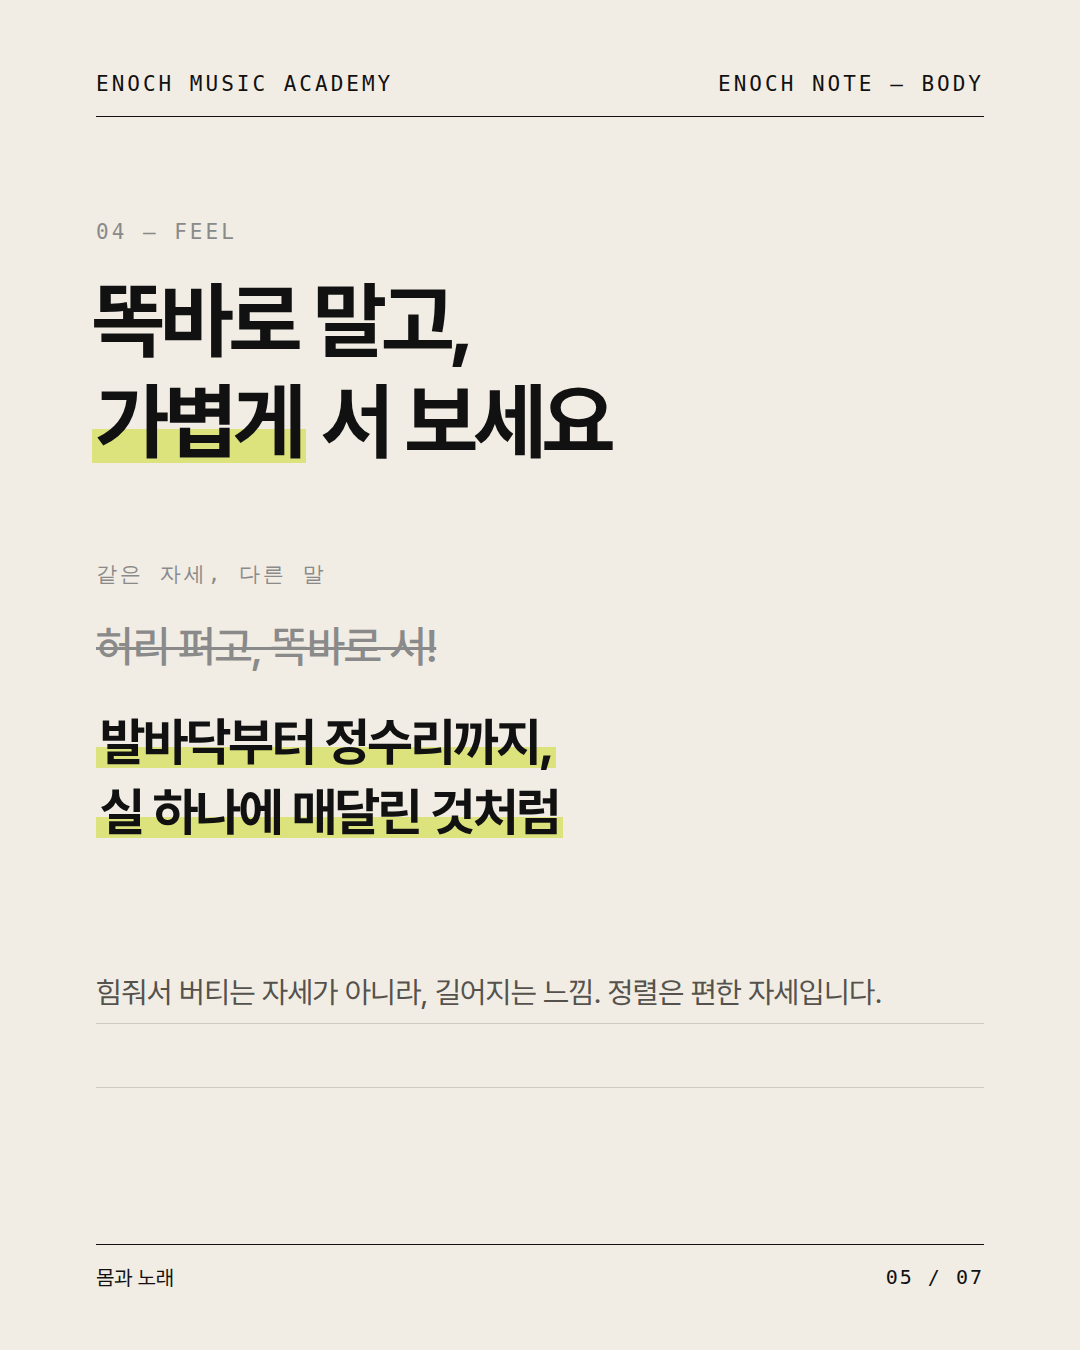
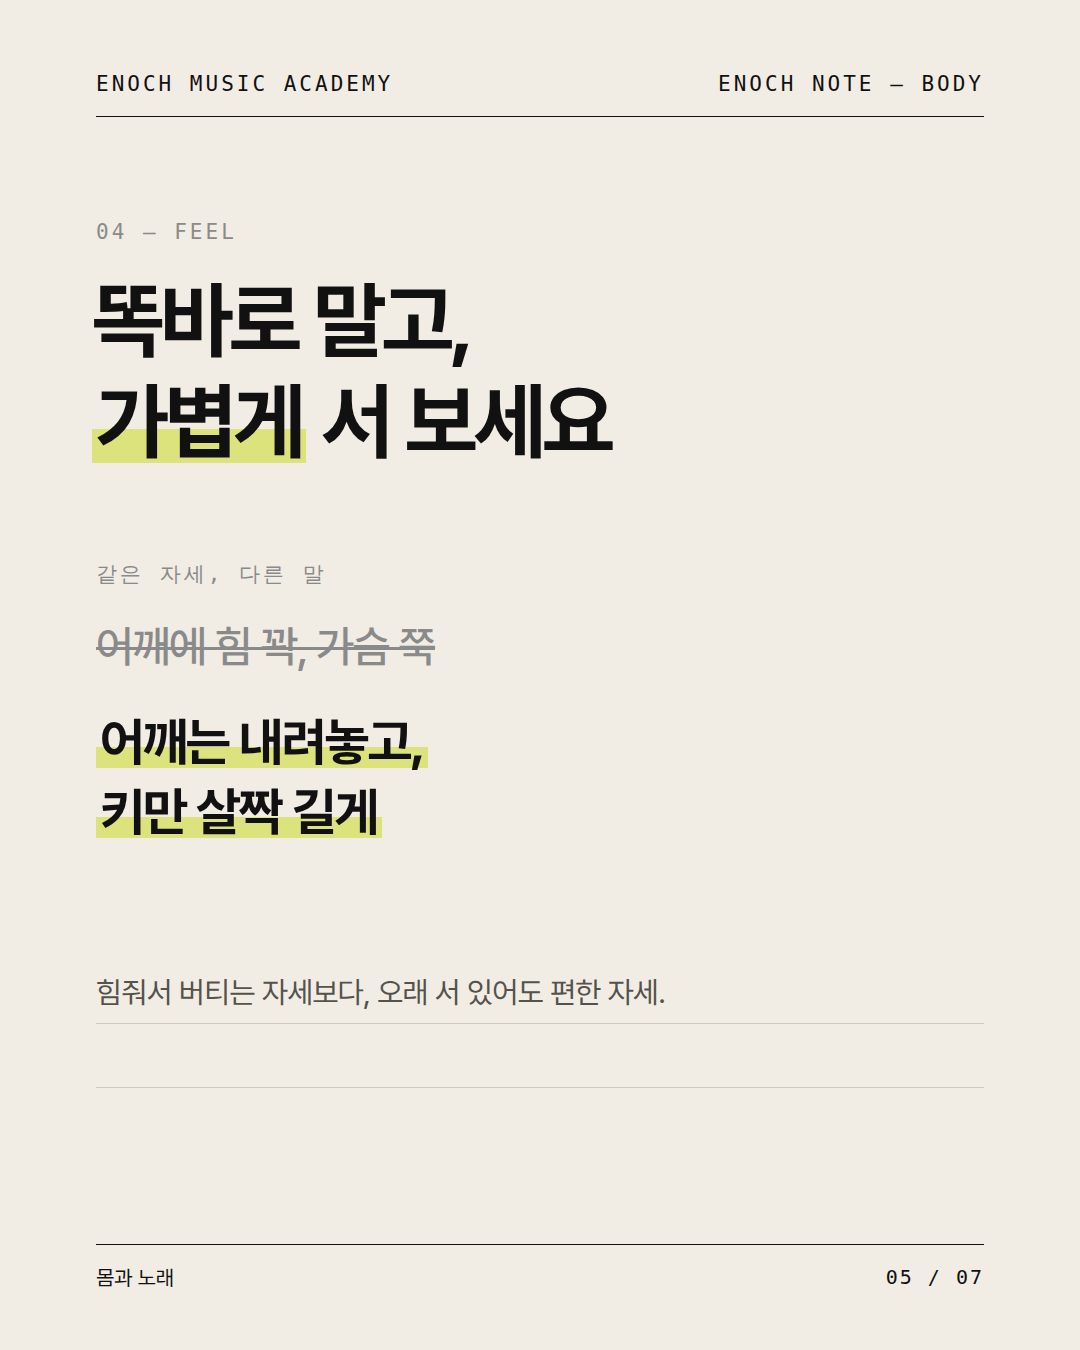
몸과 노래: 강사별 티칭 차이를 고려해 상식 선으로 수정 + CLAUDE.md 규칙
Claude-Session: https://claude.ai/code/session_01HGbZvgMeYrbU7mY8bwfjyb

Changed region(s): [[0.0917, 0.5289, 0.5194, 0.6222], [0.275, 0.7156, 0.825, 0.7467], [0.0917, 0.4667, 0.4278, 0.4978]]

diff --git a/output/노트_몸과노래/deck.html b/output/노트_몸과노래/deck.html
@@ -53,18 +53,18 @@ mark{background:linear-gradient(transparent 58%,var(--lime) 58%,var(--lime) 92%,
   <div class="h" style="position:absolute;left:92px;top:270px">똑바로 말고,<br><mark>가볍게</mark> 서 보세요</div>
   <div class="k" style="position:absolute;left:96px;top:560px">같은 자세, 다른 말</div>
   <div style="position:absolute;left:96px;right:96px;top:620px">
-    <div class="del" style="font-size:44px;font-weight:500;letter-spacing:-1.5px">허리 펴고, 똑바로 서!</div>
-    <div style="margin-top:34px;font-size:52px;font-weight:700;letter-spacing:-2px;line-height:1.35"><mark>발바닥부터 정수리까지,</mark><br><mark>실 하나에 매달린 것처럼</mark></div>
+    <div class="del" style="font-size:44px;font-weight:500;letter-spacing:-1.5px">어깨에 힘 꽉, 가슴 쭉</div>
+    <div style="margin-top:34px;font-size:52px;font-weight:700;letter-spacing:-2px;line-height:1.35"><mark>어깨는 내려놓고,</mark><br><mark>키만 살짝 길게</mark></div>
   </div>
-  <div class="note" style="top:960px;height:128px"><p>힘줘서 버티는 자세가 아니라, 길어지는 느낌. 정렬은 편한 자세입니다.</p></div>
+  <div class="note" style="top:960px;height:128px"><p>힘줘서 버티는 자세보다, 오래 서 있어도 편한 자세.</p></div>
   <div class="ft"><span>몸과 노래</span><span>05 / 07</span></div>
 </section>
 <section class="s dark" id="n6"><div class="hd"><span>ENOCH MUSIC ACADEMY</span><span>TRY TODAY</span></div>
-  <div class="h" style="position:absolute;left:92px;top:220px">오늘,<br>벽 앞에서 한 소절</div>
+  <div class="h" style="position:absolute;left:92px;top:220px">오늘,<br>거울 옆에서 한 소절</div>
   <div style="position:absolute;left:96px;right:96px;top:520px">
-    <div style="display:flex;gap:32px;padding:34px 0;border-top:1px solid rgba(241,237,228,.3)"><span class="num" style="color:var(--lime);font-size:80px;width:70px">1</span><div><div style="font-size:36px;font-weight:700">벽에 기대기</div><div style="margin-top:10px;font-size:28px;color:#C9C4BB;line-height:1.5">뒤꿈치, 엉덩이, 어깨, 뒤통수를 벽에 대고 섭니다.</div></div></div>
-    <div style="display:flex;gap:32px;padding:34px 0;border-top:1px solid rgba(241,237,228,.3)"><span class="num" style="color:var(--lime);font-size:80px;width:70px">2</span><div><div style="font-size:36px;font-weight:700">한 소절</div><div style="margin-top:10px;font-size:28px;color:#C9C4BB;line-height:1.5">그대로 좋아하는 노래 한 소절을 불러 보세요.</div></div></div>
-    <div style="display:flex;gap:32px;padding:34px 0;border-top:1px solid rgba(241,237,228,.3);border-bottom:1px solid rgba(241,237,228,.3)"><span class="num" style="color:var(--lime);font-size:80px;width:70px">3</span><div><div style="font-size:36px;font-weight:700">비교하기</div><div style="margin-top:10px;font-size:28px;color:#C9C4BB;line-height:1.5">벽에서 떨어져 같은 소절을 한 번 더.<br>둘 다 녹음해서 나란히 들어 봅니다.</div></div></div>
+    <div style="display:flex;gap:32px;padding:34px 0;border-top:1px solid rgba(241,237,228,.3)"><span class="num" style="color:var(--lime);font-size:80px;width:70px">1</span><div><div style="font-size:36px;font-weight:700">옆모습 보기</div><div style="margin-top:10px;font-size:28px;color:#C9C4BB;line-height:1.5">거울 옆에 서서, 귀와 어깨가<br>앞뒤로 너무 어긋나 있지 않은지 봅니다.</div></div></div>
+    <div style="display:flex;gap:32px;padding:34px 0;border-top:1px solid rgba(241,237,228,.3)"><span class="num" style="color:var(--lime);font-size:80px;width:70px">2</span><div><div style="font-size:36px;font-weight:700">한 소절</div><div style="margin-top:10px;font-size:28px;color:#C9C4BB;line-height:1.5">편하게 선 채로, 좋아하는 노래 한 소절.</div></div></div>
+    <div style="display:flex;gap:32px;padding:34px 0;border-top:1px solid rgba(241,237,228,.3);border-bottom:1px solid rgba(241,237,228,.3)"><span class="num" style="color:var(--lime);font-size:80px;width:70px">3</span><div><div style="font-size:36px;font-weight:700">비교하기</div><div style="margin-top:10px;font-size:28px;color:#C9C4BB;line-height:1.5">구부정하게 한 번, 편하게 선 채로 한 번.<br>둘 다 녹음해서 나란히 들어 보세요.</div></div></div>
   </div>
   <div class="ft"><span>몸과 노래</span><span>06 / 07</span></div>
 </section>

diff --git a/CLAUDE.md b/CLAUDE.md
@@ -44,6 +44,7 @@
 - "ENOCH이 실제로 이렇게 가르친다"는 문장은 학원에서 확인한 사실만 쓴다. 확인 전에는 원칙 문장만 쓰고, 확인할 내용은 "학원에 확인할 것"에 올린다.
 - 확인된 항목을 쓸 때도 방법·순서·요령은 확인된 것만 쓴다. (예: "수험표"가 확인됐어도 "가방에 가장 먼저 넣기"는 확인 전에는 쓰지 않는다.)
 - 확인된 사실을 문장으로 옮길 때 순서·우선순위 표현("먼저", "가장 먼저", "첫 번째로")을 새로 붙이지 않는다. (예: "가장 신경 쓴 것은 분위기" → "분위기에 가장 신경 썼어요" (O) / "분위기를 가장 먼저 생각했어요" (X)) (2026-10-01 원장님 결정)
+- 보컬·연주 기술 콘텐츠는 강사마다 티칭이 다르므로, 특정 방법론(특정 이미지 지시, 특정 훈련법)을 정답처럼 쓰지 않고 누구나 납득할 수 있는 상식 선에서 쓴다. 수업에서 "이렇게 한다"는 문장은 넣지 않는다 (2026-10-11 원장님 결정).
 - 원장님은 카드·캡션에 드러내지 않는다. 원장님이 한 말도 "원장님"을 밝히지 않고 쓴다 (2026-10-01 원장님 결정).
 - 모든 연령 대상 학원이다. 특정 연령·학부모를 겨냥하는 표현("부모님", "아이", "어떤 아이는")은 쓰지 않고 "사람마다", "한 사람의"처럼 쓴다 (2026-10-07 원장님 결정).
 - 카드 안의 가사 예시는 존댓말을 쓰지 않고 실제 노래 가사처럼 반말·가사체로 쓴다. 설명 문장은 그대로 존댓말 (2026-10-11 원장님 결정).

diff --git a/output/노트_몸과노래/caption.md b/output/노트_몸과노래/caption.md
@@ -3,11 +3,11 @@
 ## 본문
 목은 편한데, 소리는 왜 답답할까?
 
-노래는 목으로만 부르지 않습니다. 몸이 서 있는 모양까지, 소리에 들어가거든요. ENOCH 보컬 수업은 모든 과정이 1:1, 사람마다 다른 몸에 맞는 편한 자세를 함께 봅니다.
+노래는 목으로만 부르지 않습니다. 몸이 서 있는 모양까지, 소리에 들어가거든요. 사람마다 몸이 다른 만큼, ENOCH 보컬 수업은 모든 과정이 1:1입니다.
 
-등이 굽으면 숨이 얕아지고, 고개가 앞으로 나오면 목이 대신 일하기 쉽습니다. 그렇다고 힘줘서 똑바로 설 필요는 없어요. 발바닥부터 정수리까지, 실 하나에 매달린 것처럼 가볍게.
+등이 굽으면 숨이 얕아지고, 고개가 앞으로 나오면 목이 대신 일하기 쉽습니다. 그렇다고 힘줘서 버틸 필요는 없어요. 어깨는 내려놓고, 키만 살짝 길게.
 
-오늘은 벽 앞에서 한 소절. 벽에 기대 부른 소리와 떨어져 부른 소리를 녹음해서 나란히 들어 보세요.
+오늘은 거울 옆에서 한 소절. 구부정하게 부른 소리와 편하게 서서 부른 소리를 녹음해서 나란히 들어 보세요.
 
 에녹실용음악학원 시흥점
 경기도 시흥시 은행로 157 2층 · 010 3949 3666

diff --git a/output/노트_몸과노래/review.md b/output/노트_몸과노래/review.md
@@ -8,8 +8,8 @@
 - [x] 한 장 한 메시지, 1080×1350
 - [x] 사실: 일반 발성 교육 범위, 과장 없음. 사람 그림 없음.
 
-## 학원에 확인할 것
-- 캡션 "사람마다 다른 몸에 맞는 편한 자세를 함께 봅니다" — 보컬 수업에서 자세를 봐 주는지 확인 (아니면 이 문장 삭제)
+## 수정 (2026-10-11)
+- 강사마다 티칭이 달라 특정 방법(실 이미지, 벽 서기)과 수업 방식 단정 문장을 빼고 상식 선으로 정리
 
 ## 판정
 승인.
